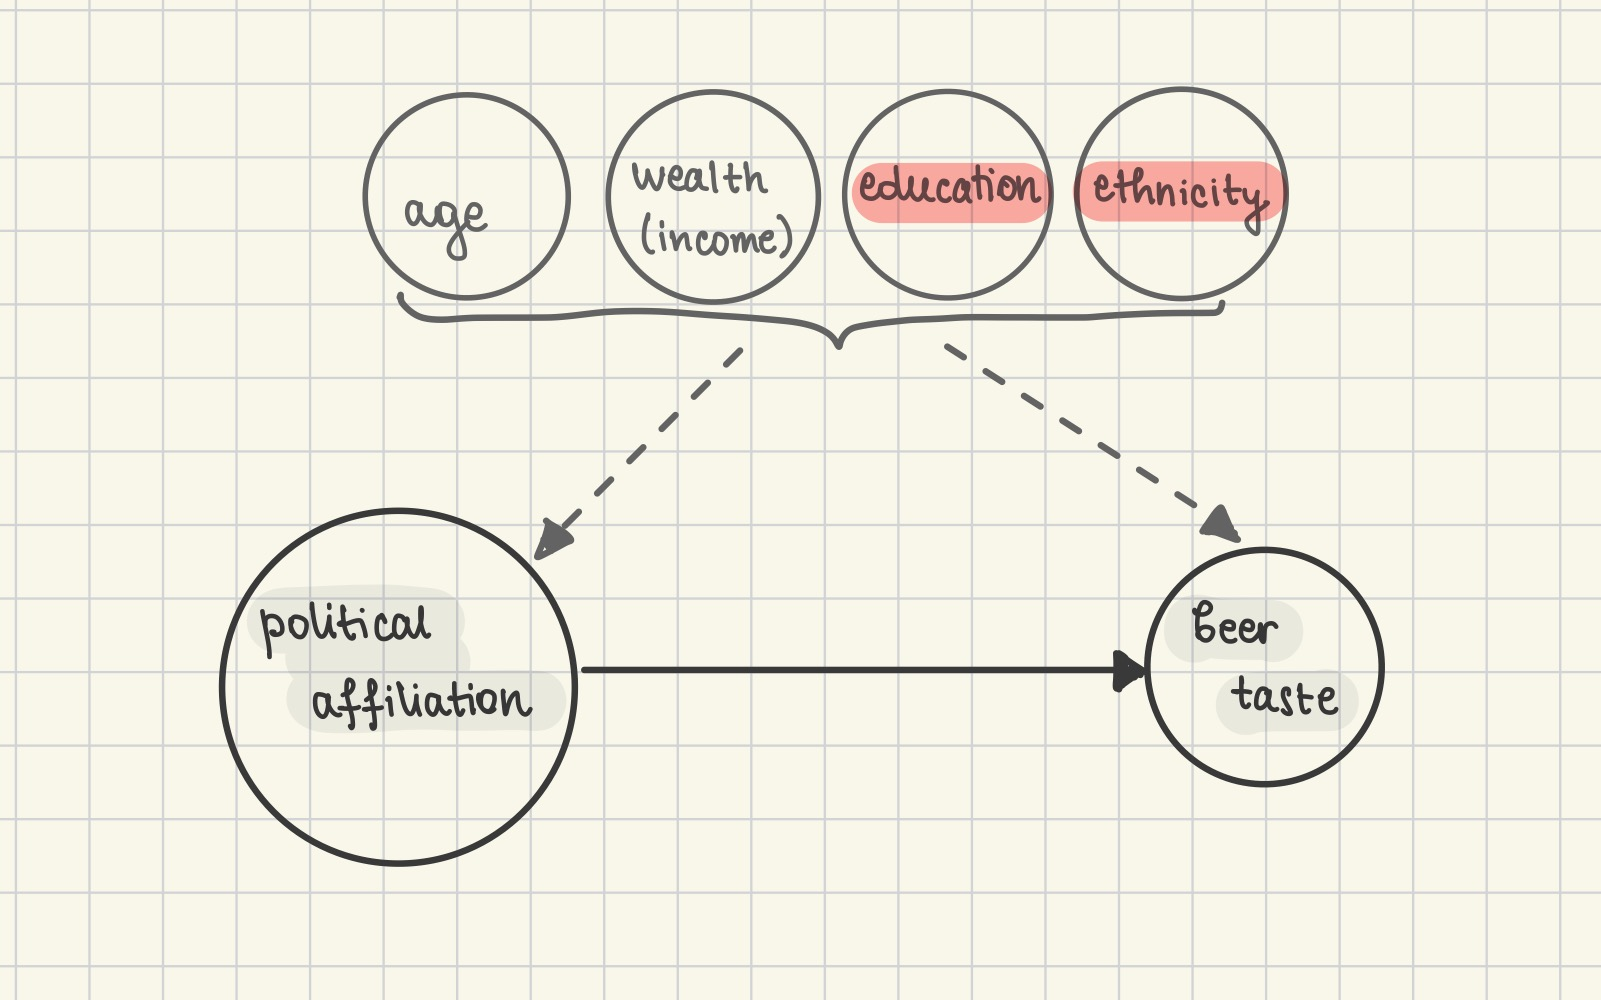
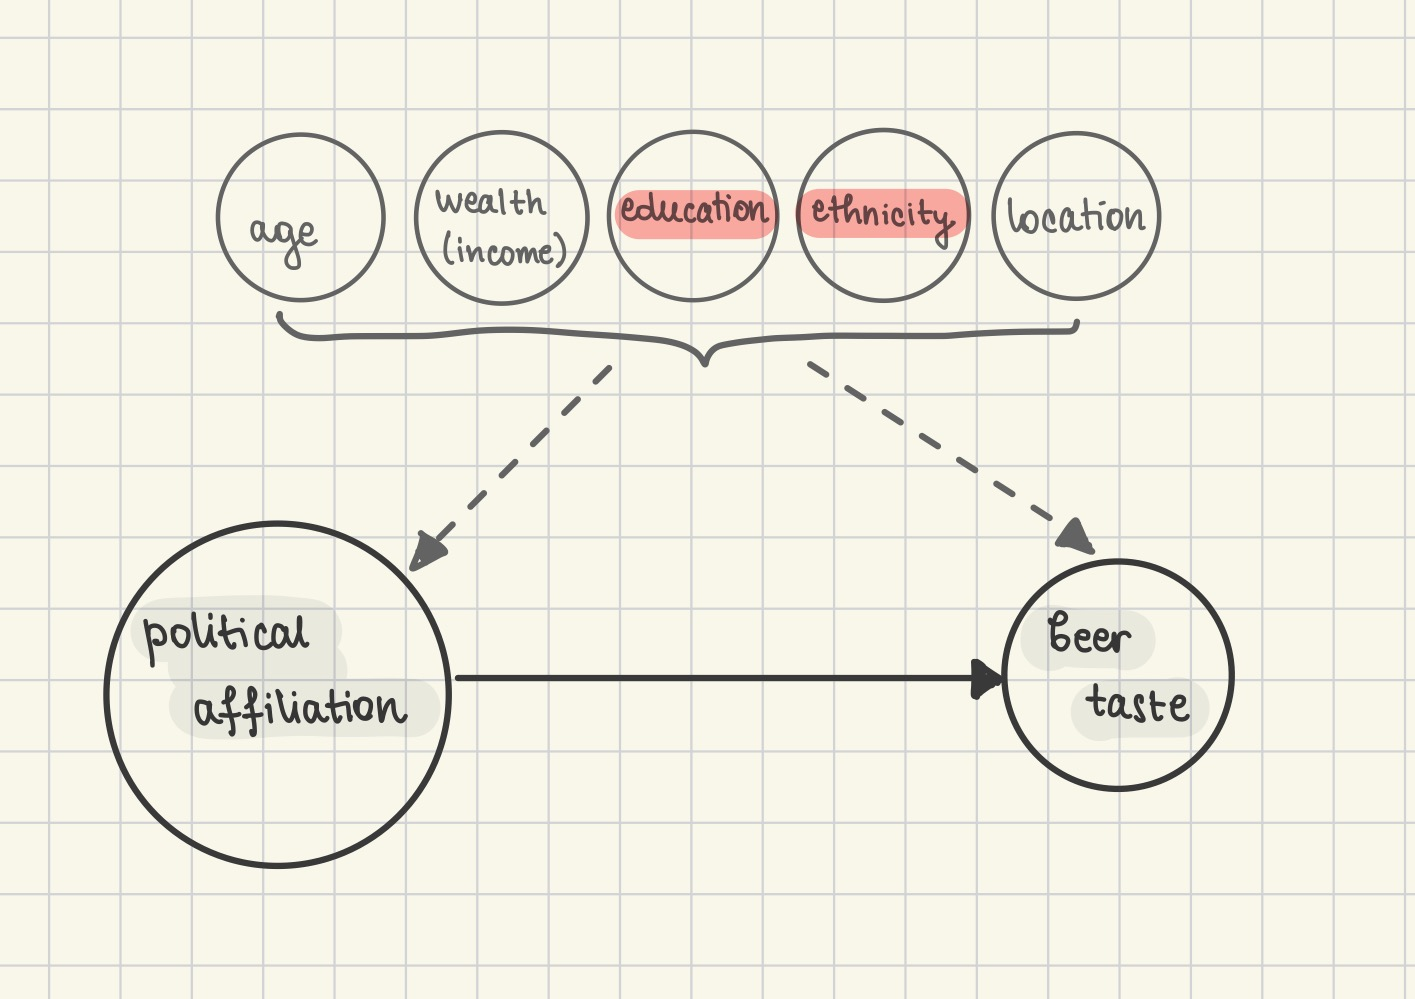
readme update

Changed region(s): [[0.0, 0.0, 1.0, 0.8999]]

diff --git a/README.md b/README.md
@@ -10,7 +10,8 @@ By analyzing beer preferences over time—using more than 15 years of reviews—
 
 ## Research Questions
 
-1. How do beer preferences vary across different U.S. states, and can these preferences be linked to political ideologies? Are there specific beer styles (e.g., IPAs, lagers, stouts) that correlate with Republican or Democratic voting patterns, i.e. *what makes a beer liberal/democratic*?
+0. How can we define diverse beer preferences? Our analysis will explore preferences through various dimensions, including beer style, its origin, and the most defining attributes.
+1. How do beer preferences vary across different U.S. states, and can these preferences be linked to political ideologies? Are there specific beer preferences (e.g., style, origin, aspect) that correlate with Republican or Democratic voting patterns, i.e. *what makes a beer liberal/democratic*?
 2. How do beer preferences change over time during election years in these states, especially in states which changed the overall political affiliation between two consecutive election years, i.e. swing states? Can these changes in beer preference serve as indicators of political shifts?
 3. Is there such a thing as an *election beer*? Over what beers do people gather and discuss their political views, i.e. what are the most reviewed beers during the election period? 
 4. How does the sentiment in beer reviews vary across regions with different political leanings?
@@ -51,17 +52,18 @@ Additionally, the dataset's website provides a nice interactive web application 
 
 ## Methods
 
-We have separated the project in 4 tasks, each of them corresponding to one of the research questions above.
+We have separated the project in 5 tasks, each of them corresponding to one of the research questions above.
+
+### Task 0. Characterizing beer preferences
+
+To characterize beer preferences, we will first map the diverse beer styles in our dataset to the five most common styles based on popularity or frequency. Also, we will analyze beer reviews to identify the aspects that consistently receive the highest ratings. Finally, we will classify the beers by their origin, distinguishing between those produced by local U.S. breweries and international ones. This approach provides a comprehensive understanding of preferences across style, quality, and origin.
 
 ### Task 1. Beer preferences and political affiliation
 
 First of all, we want to determine the beer style preferences among different states, and whether it has something to do with the political affiliation of that state. We would consider some of the most popular beer styles in the U.S., i.e. the ones that are most reviewed.  
-In order to rightfully present our findings, we will have to take into account several confounding factors that could also influence beer preference as well as political leaning, such as *age, wealth, education* and *ethnicity*. Since those are unobservable confounding factors, we will take a specific approach in order to estimate them. To the best of our knowledge, there is no work done in estimating the level of education based on written text, especially reviews. We believe that even Sheakspere wouldn't write a very eloquent and elaborate beer review, thus, unfortunately we would have to disregard studying the influence of this factor. For ethnicity it is the similar issue, since we don't have a reasonable way to estimate the ethnicity of a person from reviews written in English, based in US and with relatevily random usernames of beer reviewers. Because of this, we will consider only age and wealth of a state as our confounding factor to the political affiliation and beer preference. We estimate those factors on the basis of a whole state since we aim to determine whether beer style taste differs from state to state, based on it's majority political stance.
+In order to rightfully present our findings, we will have to take into account several confounding factors that could also influence beer preference as well as political leaning, such as *age, wealth, education*, *ethnicity* as well as geographical location of the state. Since those are unobservable confounding factors, we will take a specific approach in order to estimate them. To the best of our knowledge, there is no work done in estimating the level of education based on written text, especially reviews. We believe that even Sheakspere wouldn't write a very eloquent and elaborate beer review, thus, unfortunately we would have to disregard studying the influence of this factor. For ethnicity it is the similar issue, since we don't have a reasonable way to estimate the ethnicity of a person from reviews written in English, based in US and with relatevily random usernames of beer reviewers. Because of this, we will consider only age, wealth and location of a state as our confounding factor to the political affiliation and beer preference. We estimate those factors on the basis of a whole state since we aim to determine whether beer style taste differs from state to state, based on it's majority political stance.
 As for age, we aim to determine the mean age of a state by estimating the age of users that leave reviews are registered in that state. To attain this, we will take the following approach. We will consider the minimal legal drinking age for each state and consider it as the time the user has registered to the beer rating platform. Then, we will substract the date of a review with the registration date and add the amount of passed time to the legal drinking age.  Or age from the dataset??
-As for wealth, we will use the mean income per capita of that state, which can be found in another dataset. Or, we consider an average income for people of a certain age group and then calculate a weighted average based on the amount of people from each age group. TRICKYYYYYY DISCUSS THIS!!!!   
-
-#### Maybe also add something about different aspects?
-
+As for wealth, we will use the mean income per capita of that state, which can be found in the additional dataset #2. 
 
 
 ![Confounding factors graph](confounding_factors.JPG)
